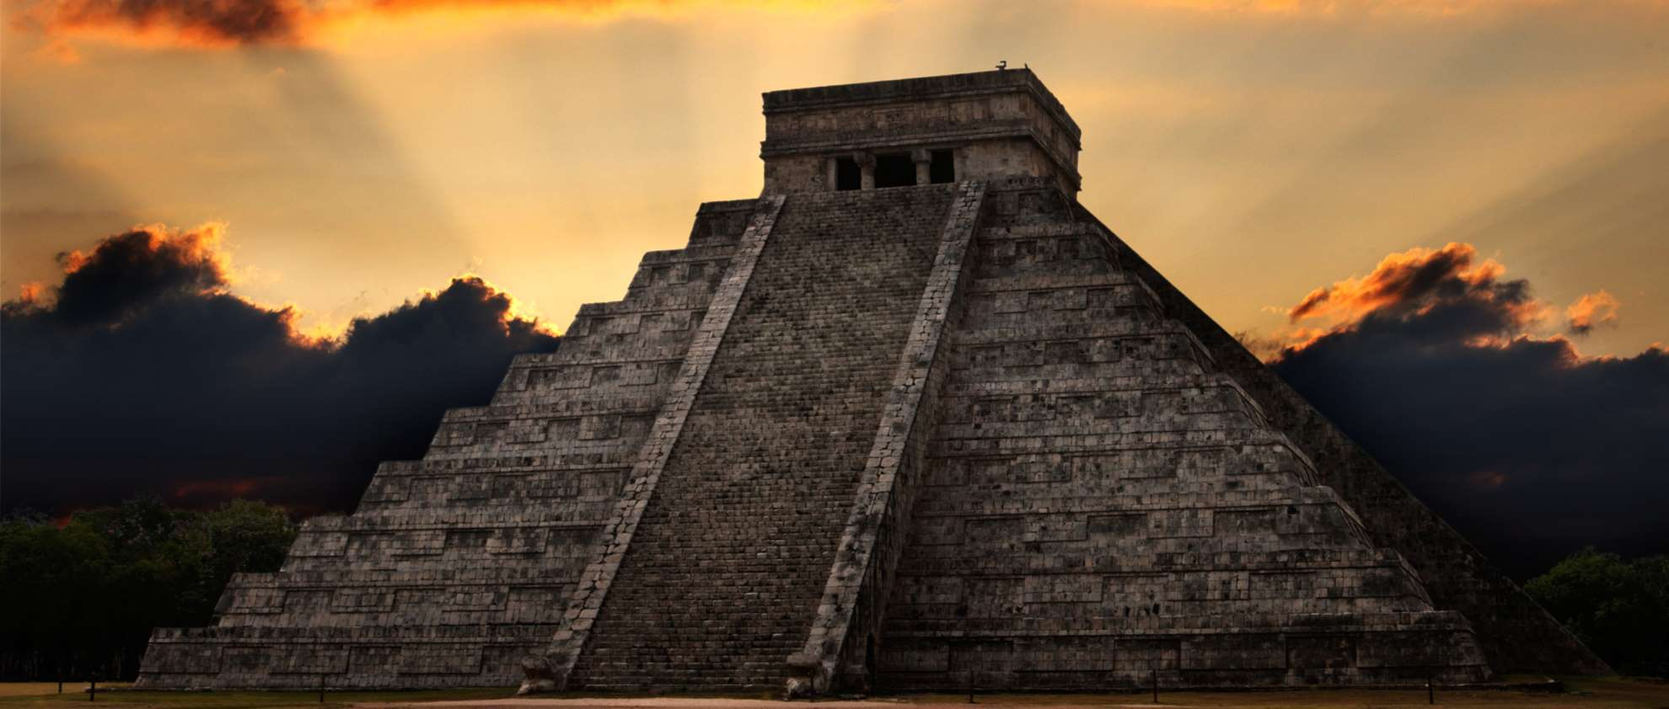
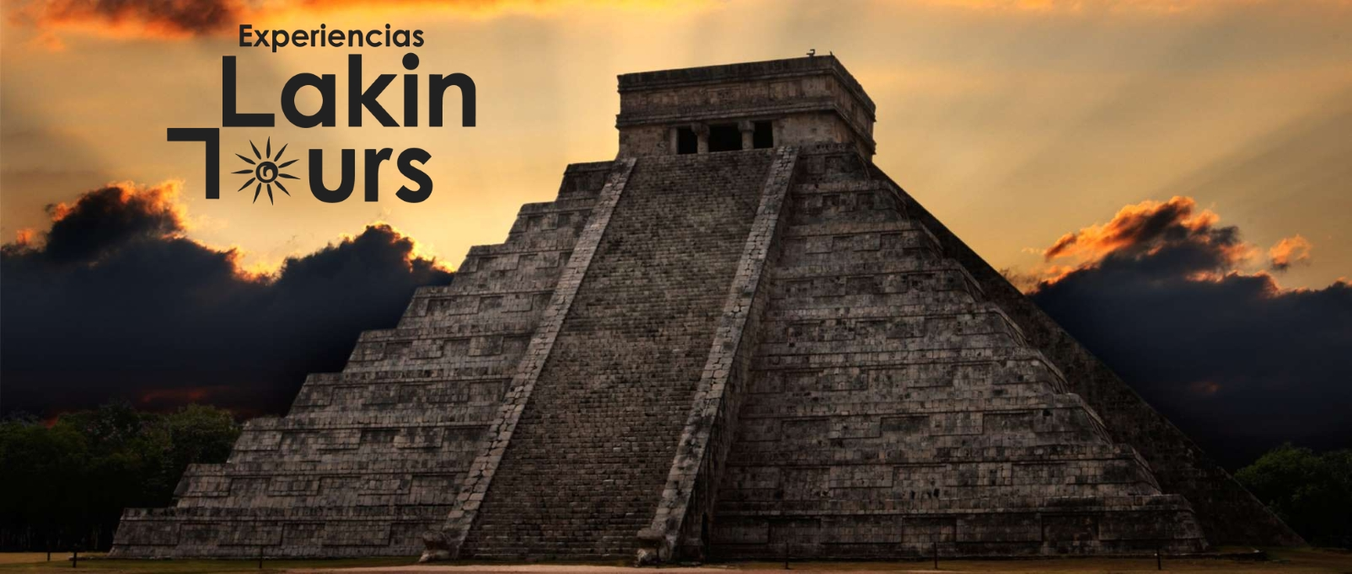
pagina nueva

Changed region(s): [[0.1247, 0.0308, 0.3741, 0.3695]]

diff --git a/index.html b/index.html
@@ -8,107 +8,81 @@
     <link rel="preconnect" href="https://fonts.googleapis.com">
     <link rel="preconnect" href="https://fonts.gstatic.com" crossorigin>
     <link href="https://fonts.googleapis.com/css2?family=Roboto:wght@400;900&display=swap" rel="stylesheet"> 
-    <link rel="stylesheet" href="https://cdn.jsdelivr.net/npm/bootstrap-icons@1.5.0/font/bootstrap-icons.css">
-    <link href="https://cdn.jsdelivr.net/npm/bootstrap@5.2.3/dist/css/bootstrap.min.css" rel="stylesheet" integrity="sha384-rbsA2VBKQhggwzxH7pPCaAqO46MgnOM80zW1RWuH61DGLwZJEdK2Kadq2F9CUG65" crossorigin="anonymous">
-    
-    <link rel="stylesheet" href="css/app.css">
+    <link href="https://cdn.jsdelivr.net/npm/bootstrap@5.3.2/dist/css/bootstrap.min.css" rel="stylesheet" integrity="sha384-T3c6CoIi6uLrA9TneNEoa7RxnatzjcDSCmG1MXxSR1GAsXEV/Dwwykc2MPK8M2HN" crossorigin="anonymous">
+    <script src="https://cdn.jsdelivr.net/npm/bootstrap@5.3.2/dist/js/bootstrap.bundle.min.js" integrity="sha384-C6RzsynM9kWDrMNeT87bh95OGNyZPhcTNXj1NW7RuBCsyN/o0jlpcV8Qyq46cDfL" crossorigin="anonymous"></script>
+    <link rel="stylesheet" href="css/inicio.css">
 </head>
-<body>
+<body class="vh-100 overflow-hidden">
 
-    <section class="menu">
-        <div class="container-xl pt-3 ">
-            <ul class="nav flex-column flex-md-row justify-content-evenly">
-                <li class="nav-item">
-                    <a class="nav-link active" href="#">INICIO</a>
-                </li>
-                <li class="nav-item">
-                    <a class="nav-link active" href="#">NOSOTROS</a>
-                </li>
-                <li class="nav-item">
-                    <a class="nav-link dropdown-toggle" href="#" data-bs-toggle="dropdown">TOURS</a>
-                    <ul class="dropdown-menu">
-                        <li>
-                            <a class="dropdown-item" href="#">CHICHEN-ITZA</a>
-                        </li>
-                        <li>
-                            <a class="dropdown-item" href="#">EK BALAM</a>
-                        </li>
-                        <li>
-                            <a class="dropdown-item" href="#">OTROS</a>
-                        </li>
-                    </ul>
-                </li>
-            </ul>
-        </div>
-    </section>
+    <!-- NAVBAR -->
 
-    <section class="carrusel-lakin">
-        
-        <div id="carouselExampleCaptions" class="carousel slide" data-bs-ride="false">
-            <div class="carousel-indicators">
-              <button type="button" data-bs-target="#carouselExampleCaptions" data-bs-slide-to="0" class="active" aria-current="true" aria-label="Slide 1"></button>
-              <button type="button" data-bs-target="#carouselExampleCaptions" data-bs-slide-to="1" aria-label="Slide 2"></button>
-              <!-- <button type="button" data-bs-target="#carouselExampleCaptions" data-bs-slide-to="2" aria-label="Slide 3"></button> -->
+    <nav class="navbar navbar-expand-lg navbar-dark bg-transparent ">
+        <div class="container">
+            <!-- LOGO -->
+          <a class="navbar-brand " href="#">Lakin Tours</a>
+          <!-- Toggle Btn -->
+          <button class="navbar-toggler shadow-none border-0" 
+                  type="button" 
+                  data-bs-toggle="offcanvas" 
+                  data-bs-target="#offcanvasNavbar" 
+                  aria-controls="offcanvasNavbar"
+                   aria-label="Toggle navigation">
+
+
+            <span class="navbar-toggler-icon"></span>
+          </button>
+
+          <!-- SideBar -->
+
+          <div class="sidebar offcanvas offcanvas-start" 
+               tabindex="-1" id="offcanvasNavbar"
+                aria-labelledby="offcanvasNavbarLabel">
+
+          <!--Sidebar Header-->
+            <div class="offcanvas-header text-white border-bottom">
+              <h5 class="offcanvas-title" id="offcanvasNavbarLabel">Lakin Tours</h5>
+              <button type="button" 
+                      class="btn-close btn-white shadow-none" 
+                      data-bs-dismiss="offcanvas" 
+                      aria-label="Close"
+                ></button>
             </div>
-            <div class="carousel-inner">
-              <div class="carousel-item active">
-                <img src="./img/Group 4.png" class="d-block w-100" alt="...">
-                <div class="carousel-caption d-none d-md-block">
-                  <h2 class="display-1 titulo-img">Chichen Itza</h2>
-                  <p class="fs-2">La ciudad de los Itzaes, magnificencia y magia.</p>
-                </div>
-              </div>
-              <div class="carousel-item">
-                <img src="/img/Ek.jpg" class="d-block w-100" alt="...">
-                <div class="carousel-caption d-none d-md-block">
-                    <h2 class="display-1 titulo-img">Ek Balam</h2>
-                  <p class="fs-2">Grandeza, arte y naturaleza.</p>
-                </div>
-              </div>
-              <!-- <div class="carousel-item">
-                <img src="..." class="d-block w-100" alt="...">
-                <div class="carousel-caption d-none d-md-block">
-                  <h5>Third slide label</h5>
-                  <p>Some representative placeholder content for the third slide.</p>
-                </div>
-              </div>
-            </div> -->
-            <button class="carousel-control-prev" type="button" data-bs-target="#carouselExampleCaptions" data-bs-slide="prev">
-              <span class="carousel-control-prev-icon" aria-hidden="true"></span>
-              <span class="visually-hidden">Previous</span>
-            </button>
-            <button class="carousel-control-next" type="button" data-bs-target="#carouselExampleCaptions" data-bs-slide="next">
-              <span class="carousel-control-next-icon" aria-hidden="true"></span>
-              <span class="visually-hidden">Next</span>
-            </button>
+            <!-- Sidebar Body -->
+            <div class="offcanvas-body d-flex flex-column flex-lg-row p-4  p-lg-0 ">
+                <!-- Aqui se cambia la alineación de los links -->
+              <ul class="navbar-nav justify-content-center align-items-center fs-5 flex-grow-1 pe-3">
+                <li class="nav-item mx-2">
+                  <a class="nav-link active" aria-current="page" href="#">Inicio</a>
+                </li>
+                <li class="nav-item mx-2">
+                  <a class="nav-link" href="#">Nosotros</a>
+                </li>
+                <li class="nav-item mx-2 dropdown">
+                  <a class="nav-link dropdown-toggle" href="#" role="button" data-bs-toggle="dropdown" aria-expanded="false">
+                    Tours
+                  </a>
+                  <ul class="dropdown-menu">
+                    <li><a class="dropdown-item" href="#">Chichen Itza</a></li>
+                    <li><a class="dropdown-item" href="#">Ek Balam</a></li>
+                    <li>
+                      <hr class="dropdown-divider">
+                    </li>
+                    <li><a class="dropdown-item" href="#">Otros Tours</a></li>
+                  </ul>
+                </li>
+              </ul>
+              
+            </div>
           </div>
-
-    </section>
-
-    <section class="reseñas">
-            <!-- <div>
-                <blockquote class="instagram-media" 
-                data-instgrm-captioned data-instgrm-permalink="https://www.instagram.com/p/Cncj3vxuFKP/?utm_source=ig_embed&amp;utm_campaign=loading" data-instgrm-version="14" style=" background:#FFF; border:0; border-radius:3px; box-shadow:0 0 1px 0 rgba(0,0,0,0.5),0 1px 10px 0 rgba(0,0,0,0.15); margin: 1px; max-width:540px; min-width:326px; padding:0; width:99.375%; width:-webkit-calc(100% - 2px); width:calc(100% - 2px);"><div style="padding:16px;"> <a href="https://www.instagram.com/p/Cncj3vxuFKP/?utm_source=ig_embed&amp;utm_campaign=loading" style=" background:#FFFFFF; line-height:0; padding:0 0; text-align:center; text-decoration:none; width:100%;" target="_blank"> <div style=" display: flex; flex-direction: row; align-items: center;"> <div style="background-color: #F4F4F4; border-radius: 50%; flex-grow: 0; height: 40px; margin-right: 14px; width: 40px;"></div> <div style="display: flex; flex-direction: column; flex-grow: 1; justify-content: center;"> <div style=" background-color: #F4F4F4; border-radius: 4px; flex-grow: 0; height: 14px; margin-bottom: 6px; width: 100px;"></div> <div style=" background-color: #F4F4F4; border-radius: 4px; flex-grow: 0; height: 14px; width: 60px;"></div></div></div><div style="padding: 19% 0;"></div> <div style="display:block; height:50px; margin:0 auto 12px; width:50px;"><svg width="50px" height="50px" viewBox="0 0 60 60" version="1.1" xmlns="https://www.w3.org/2000/svg" xmlns:xlink="https://www.w3.org/1999/xlink"><g stroke="none" stroke-width="1" fill="none" fill-rule="evenodd"><g transform="translate(-511.000000, -20.000000)" fill="#000000"><g><path d="M556.869,30.41 C554.814,30.41 553.148,32.076 553.148,34.131 C553.148,36.186 554.814,37.852 556.869,37.852 C558.924,37.852 560.59,36.186 560.59,34.131 C560.59,32.076 558.924,30.41 556.869,30.41 M541,60.657 C535.114,60.657 530.342,55.887 530.342,50 C530.342,44.114 535.114,39.342 541,39.342 C546.887,39.342 551.658,44.114 551.658,50 C551.658,55.887 546.887,60.657 541,60.657 M541,33.886 C532.1,33.886 524.886,41.1 524.886,50 C524.886,58.899 532.1,66.113 541,66.113 C549.9,66.113 557.115,58.899 557.115,50 C557.115,41.1 549.9,33.886 541,33.886 M565.378,62.101 C565.244,65.022 564.756,66.606 564.346,67.663 C563.803,69.06 563.154,70.057 562.106,71.106 C561.058,72.155 560.06,72.803 558.662,73.347 C557.607,73.757 556.021,74.244 553.102,74.378 C549.944,74.521 548.997,74.552 541,74.552 C533.003,74.552 532.056,74.521 528.898,74.378 C525.979,74.244 524.393,73.757 523.338,73.347 C521.94,72.803 520.942,72.155 519.894,71.106 C518.846,70.057 518.197,69.06 517.654,67.663 C517.244,66.606 516.755,65.022 516.623,62.101 C516.479,58.943 516.448,57.996 516.448,50 C516.448,42.003 516.479,41.056 516.623,37.899 C516.755,34.978 517.244,33.391 517.654,32.338 C518.197,30.938 518.846,29.942 519.894,28.894 C520.942,27.846 521.94,27.196 523.338,26.654 C524.393,26.244 525.979,25.756 528.898,25.623 C532.057,25.479 533.004,25.448 541,25.448 C548.997,25.448 549.943,25.479 553.102,25.623 C556.021,25.756 557.607,26.244 558.662,26.654 C560.06,27.196 561.058,27.846 562.106,28.894 C563.154,29.942 563.803,30.938 564.346,32.338 C564.756,33.391 565.244,34.978 565.378,37.899 C565.522,41.056 565.552,42.003 565.552,50 C565.552,57.996 565.522,58.943 565.378,62.101 M570.82,37.631 C570.674,34.438 570.167,32.258 569.425,30.349 C568.659,28.377 567.633,26.702 565.965,25.035 C564.297,23.368 562.623,22.342 560.652,21.575 C558.743,20.834 556.562,20.326 553.369,20.18 C550.169,20.033 549.148,20 541,20 C532.853,20 531.831,20.033 528.631,20.18 C525.438,20.326 523.257,20.834 521.349,21.575 C519.376,22.342 517.703,23.368 516.035,25.035 C514.368,26.702 513.342,28.377 512.574,30.349 C511.834,32.258 511.326,34.438 511.181,37.631 C511.035,40.831 511,41.851 511,50 C511,58.147 511.035,59.17 511.181,62.369 C511.326,65.562 511.834,67.743 512.574,69.651 C513.342,71.625 514.368,73.296 516.035,74.965 C517.703,76.634 519.376,77.658 521.349,78.425 C523.257,79.167 525.438,79.673 528.631,79.82 C531.831,79.965 532.853,80.001 541,80.001 C549.148,80.001 550.169,79.965 553.369,79.82 C556.562,79.673 558.743,79.167 560.652,78.425 C562.623,77.658 564.297,76.634 565.965,74.965 C567.633,73.296 568.659,71.625 569.425,69.651 C570.167,67.743 570.674,65.562 570.82,62.369 C570.966,59.17 571,58.147 571,50 C571,41.851 570.966,40.831 570.82,37.631"></path></g></g></g></svg></div><div style="padding-top: 8px;"> <div style=" color:#3897f0; font-family:Arial,sans-serif; font-size:14px; font-style:normal; font-weight:550; line-height:18px;">Ver esta publicación en Instagram</div></div><div style="padding: 12.5% 0;"></div> <div style="display: flex; flex-direction: row; margin-bottom: 14px; align-items: center;"><div> <div style="background-color: #F4F4F4; border-radius: 50%; height: 12.5px; width: 12.5px; transform: translateX(0px) translateY(7px);"></div> <div style="background-color: #F4F4F4; height: 12.5px; transform: rotate(-45deg) translateX(3px) translateY(1px); width: 12.5px; flex-grow: 0; margin-right: 14px; margin-left: 2px;"></div> <div style="background-color: #F4F4F4; border-radius: 50%; height: 12.5px; width: 12.5px; transform: translateX(9px) translateY(-18px);"></div></div><div style="margin-left: 8px;"> <div style=" background-color: #F4F4F4; border-radius: 50%; flex-grow: 0; height: 20px; width: 20px;"></div> <div style=" width: 0; height: 0; border-top: 2px solid transparent; border-left: 6px solid #f4f4f4; border-bottom: 2px solid transparent; transform: translateX(16px) translateY(-4px) rotate(30deg)"></div></div><div style="margin-left: auto;"> <div style=" width: 0px; border-top: 8px solid #F4F4F4; border-right: 8px solid transparent; transform: translateY(16px);"></div> <div style=" background-color: #F4F4F4; flex-grow: 0; height: 12px; width: 16px; transform: translateY(-4px);"></div> <div style=" width: 0; height: 0; border-top: 8px solid #F4F4F4; border-left: 8px solid transparent; transform: translateY(-4px) translateX(8px);"></div></div></div> <div style="display: flex; flex-direction: column; flex-grow: 1; justify-content: center; margin-bottom: 24px;"> <div style=" background-color: #F4F4F4; border-radius: 4px; flex-grow: 0; height: 14px; margin-bottom: 6px; width: 224px;"></div> <div style=" background-color: #F4F4F4; border-radius: 4px; flex-grow: 0; height: 14px; width: 144px;"></div></div></a><p style=" color:#c9c8cd; font-family:Arial,sans-serif; font-size:14px; line-height:17px; margin-bottom:0; margin-top:8px; overflow:hidden; padding:8px 0 7px; text-align:center; text-overflow:ellipsis; white-space:nowrap;"><a href="https://www.instagram.com/p/Cncj3vxuFKP/?utm_source=ig_embed&amp;utm_campaign=loading" style=" color:#c9c8cd; font-family:Arial,sans-serif; font-size:14px; font-style:normal; font-weight:normal; line-height:17px; text-decoration:none;" target="_blank">Una publicación compartida por Experiencias LakinTours (@lakintours)</a></p></div></blockquote> <script async src="//www.instagram.com/embed.js"></script>
-            </div> -->
-            <div class="container-xl pt-5"></div>
-            <script src="https://static.elfsight.com/platform/platform.js" data-use-service-core defer></script>
-            <div class="elfsight-app-1990c052-57a7-4233-9c32-91550cfcda9f"></div>
-    </section>
-    
-    <section class="footer">
-        <div class="redes container-xl d-flex justify-content-evenly ">
-            <a href="https://www.facebook.com/LakinTours" type="button" class="btn "><i class="bi bi-facebook"></i></a>
-            <a type="button" class="btn  "><i class="bi bi-whatsapp"></i></i></a>
-            <a type="button" class="btn "><i class="bi bi-instagram"></i></i></a>
-     
         </div>
-    </section>
+      </nav>
 
-
-    <script src="https://cdn.jsdelivr.net/npm/@popperjs/core@2.11.6/dist/umd/popper.min.js" integrity="sha384-oBqDVmMz9ATKxIep9tiCxS/Z9fNfEXiDAYTujMAeBAsjFuCZSmKbSSUnQlmh/jp3" crossorigin="anonymous"></script>
-    <script src="https://cdn.jsdelivr.net/npm/bootstrap@5.2.3/dist/js/bootstrap.min.js" integrity="sha384-cuYeSxntonz0PPNlHhBs68uyIAVpIIOZZ5JqeqvYYIcEL727kskC66kF92t6Xl2V" crossorigin="anonymous"></script>
-    
-
+      <main>
+        <section class="w-100 vh-100 d-flex flex-column justify-content-center align-items-center text-white fs-1">
+            <h2 style="font-size:1.5em ">Experiencias Unicas</h2>
+            <h2 style="font-size:1.2em ">Magic Experiences</h2>
+        </section>
+      </main>
     
 </body>
 </html>

diff --git a/inicio1.html b/inicio1.html
@@ -1,0 +1,114 @@
+<!DOCTYPE html>
+<html lang="es">
+<head>
+    <meta charset="UTF-8">
+    <meta http-equiv="X-UA-Compatible" content="IE=edge">
+    <meta name="viewport" content="width=device-width, initial-scale=1.0">
+    <title>Lakin Tours</title>
+    <link rel="preconnect" href="https://fonts.googleapis.com">
+    <link rel="preconnect" href="https://fonts.gstatic.com" crossorigin>
+    <link href="https://fonts.googleapis.com/css2?family=Roboto:wght@400;900&display=swap" rel="stylesheet"> 
+    <link rel="stylesheet" href="https://cdn.jsdelivr.net/npm/bootstrap-icons@1.5.0/font/bootstrap-icons.css">
+    <link href="https://cdn.jsdelivr.net/npm/bootstrap@5.2.3/dist/css/bootstrap.min.css" rel="stylesheet" integrity="sha384-rbsA2VBKQhggwzxH7pPCaAqO46MgnOM80zW1RWuH61DGLwZJEdK2Kadq2F9CUG65" crossorigin="anonymous">
+    
+    <link rel="stylesheet" href="css/app.css">
+</head>
+<body>
+
+    <section class="menu">
+        <div class="container-xl pt-3 ">
+            <ul class="nav flex-column flex-md-row justify-content-evenly">
+                <li class="nav-item">
+                    <a class="nav-link active" href="#">INICIO</a>
+                </li>
+                <li class="nav-item">
+                    <a class="nav-link active" href="#">NOSOTROS</a>
+                </li>
+                <li class="nav-item">
+                    <a class="nav-link dropdown-toggle" href="#" data-bs-toggle="dropdown">TOURS</a>
+                    <ul class="dropdown-menu">
+                        <li>
+                            <a class="dropdown-item" href="#">CHICHEN-ITZA</a>
+                        </li>
+                        <li>
+                            <a class="dropdown-item" href="#">EK BALAM</a>
+                        </li>
+                        <li>
+                            <a class="dropdown-item" href="#">OTROS</a>
+                        </li>
+                    </ul>
+                </li>
+            </ul>
+        </div>
+    </section>
+
+    <section class="carrusel-lakin">
+        
+        <div id="carouselExampleCaptions" class="carousel slide" data-bs-ride="false">
+            <div class="carousel-indicators">
+              <button type="button" data-bs-target="#carouselExampleCaptions" data-bs-slide-to="0" class="active" aria-current="true" aria-label="Slide 1"></button>
+              <button type="button" data-bs-target="#carouselExampleCaptions" data-bs-slide-to="1" aria-label="Slide 2"></button>
+              <!-- <button type="button" data-bs-target="#carouselExampleCaptions" data-bs-slide-to="2" aria-label="Slide 3"></button> -->
+            </div>
+            <div class="carousel-inner">
+              <div class="carousel-item active">
+                <img src="./img/Group 4.png" class="d-block w-100" alt="...">
+                <div class="carousel-caption d-none d-md-block">
+                  <h2 class="display-1 titulo-img">Chichen Itza</h2>
+                  <p class="fs-2">La ciudad de los Itzaes, magnificencia y magia.</p>
+                </div>
+              </div>
+              <div class="carousel-item">
+                <img src="/img/Ek.jpg" class="d-block w-100" alt="...">
+                <div class="carousel-caption d-none d-md-block">
+                    <h2 class="display-1 titulo-img">Ek Balam</h2>
+                  <p class="fs-2">Grandeza, arte y naturaleza.</p>
+                </div>
+              </div>
+              <!-- <div class="carousel-item">
+                <img src="..." class="d-block w-100" alt="...">
+                <div class="carousel-caption d-none d-md-block">
+                  <h5>Third slide label</h5>
+                  <p>Some representative placeholder content for the third slide.</p>
+                </div>
+              </div>
+            </div> -->
+            <button class="carousel-control-prev" type="button" data-bs-target="#carouselExampleCaptions" data-bs-slide="prev">
+              <span class="carousel-control-prev-icon" aria-hidden="true"></span>
+              <span class="visually-hidden">Previous</span>
+            </button>
+            <button class="carousel-control-next" type="button" data-bs-target="#carouselExampleCaptions" data-bs-slide="next">
+              <span class="carousel-control-next-icon" aria-hidden="true"></span>
+              <span class="visually-hidden">Next</span>
+            </button>
+          </div>
+
+    </section>
+
+    <section class="reseñas">
+            <!-- <div>
+                <blockquote class="instagram-media" 
+                data-instgrm-captioned data-instgrm-permalink="https://www.instagram.com/p/Cncj3vxuFKP/?utm_source=ig_embed&amp;utm_campaign=loading" data-instgrm-version="14" style=" background:#FFF; border:0; border-radius:3px; box-shadow:0 0 1px 0 rgba(0,0,0,0.5),0 1px 10px 0 rgba(0,0,0,0.15); margin: 1px; max-width:540px; min-width:326px; padding:0; width:99.375%; width:-webkit-calc(100% - 2px); width:calc(100% - 2px);"><div style="padding:16px;"> <a href="https://www.instagram.com/p/Cncj3vxuFKP/?utm_source=ig_embed&amp;utm_campaign=loading" style=" background:#FFFFFF; line-height:0; padding:0 0; text-align:center; text-decoration:none; width:100%;" target="_blank"> <div style=" display: flex; flex-direction: row; align-items: center;"> <div style="background-color: #F4F4F4; border-radius: 50%; flex-grow: 0; height: 40px; margin-right: 14px; width: 40px;"></div> <div style="display: flex; flex-direction: column; flex-grow: 1; justify-content: center;"> <div style=" background-color: #F4F4F4; border-radius: 4px; flex-grow: 0; height: 14px; margin-bottom: 6px; width: 100px;"></div> <div style=" background-color: #F4F4F4; border-radius: 4px; flex-grow: 0; height: 14px; width: 60px;"></div></div></div><div style="padding: 19% 0;"></div> <div style="display:block; height:50px; margin:0 auto 12px; width:50px;"><svg width="50px" height="50px" viewBox="0 0 60 60" version="1.1" xmlns="https://www.w3.org/2000/svg" xmlns:xlink="https://www.w3.org/1999/xlink"><g stroke="none" stroke-width="1" fill="none" fill-rule="evenodd"><g transform="translate(-511.000000, -20.000000)" fill="#000000"><g><path d="M556.869,30.41 C554.814,30.41 553.148,32.076 553.148,34.131 C553.148,36.186 554.814,37.852 556.869,37.852 C558.924,37.852 560.59,36.186 560.59,34.131 C560.59,32.076 558.924,30.41 556.869,30.41 M541,60.657 C535.114,60.657 530.342,55.887 530.342,50 C530.342,44.114 535.114,39.342 541,39.342 C546.887,39.342 551.658,44.114 551.658,50 C551.658,55.887 546.887,60.657 541,60.657 M541,33.886 C532.1,33.886 524.886,41.1 524.886,50 C524.886,58.899 532.1,66.113 541,66.113 C549.9,66.113 557.115,58.899 557.115,50 C557.115,41.1 549.9,33.886 541,33.886 M565.378,62.101 C565.244,65.022 564.756,66.606 564.346,67.663 C563.803,69.06 563.154,70.057 562.106,71.106 C561.058,72.155 560.06,72.803 558.662,73.347 C557.607,73.757 556.021,74.244 553.102,74.378 C549.944,74.521 548.997,74.552 541,74.552 C533.003,74.552 532.056,74.521 528.898,74.378 C525.979,74.244 524.393,73.757 523.338,73.347 C521.94,72.803 520.942,72.155 519.894,71.106 C518.846,70.057 518.197,69.06 517.654,67.663 C517.244,66.606 516.755,65.022 516.623,62.101 C516.479,58.943 516.448,57.996 516.448,50 C516.448,42.003 516.479,41.056 516.623,37.899 C516.755,34.978 517.244,33.391 517.654,32.338 C518.197,30.938 518.846,29.942 519.894,28.894 C520.942,27.846 521.94,27.196 523.338,26.654 C524.393,26.244 525.979,25.756 528.898,25.623 C532.057,25.479 533.004,25.448 541,25.448 C548.997,25.448 549.943,25.479 553.102,25.623 C556.021,25.756 557.607,26.244 558.662,26.654 C560.06,27.196 561.058,27.846 562.106,28.894 C563.154,29.942 563.803,30.938 564.346,32.338 C564.756,33.391 565.244,34.978 565.378,37.899 C565.522,41.056 565.552,42.003 565.552,50 C565.552,57.996 565.522,58.943 565.378,62.101 M570.82,37.631 C570.674,34.438 570.167,32.258 569.425,30.349 C568.659,28.377 567.633,26.702 565.965,25.035 C564.297,23.368 562.623,22.342 560.652,21.575 C558.743,20.834 556.562,20.326 553.369,20.18 C550.169,20.033 549.148,20 541,20 C532.853,20 531.831,20.033 528.631,20.18 C525.438,20.326 523.257,20.834 521.349,21.575 C519.376,22.342 517.703,23.368 516.035,25.035 C514.368,26.702 513.342,28.377 512.574,30.349 C511.834,32.258 511.326,34.438 511.181,37.631 C511.035,40.831 511,41.851 511,50 C511,58.147 511.035,59.17 511.181,62.369 C511.326,65.562 511.834,67.743 512.574,69.651 C513.342,71.625 514.368,73.296 516.035,74.965 C517.703,76.634 519.376,77.658 521.349,78.425 C523.257,79.167 525.438,79.673 528.631,79.82 C531.831,79.965 532.853,80.001 541,80.001 C549.148,80.001 550.169,79.965 553.369,79.82 C556.562,79.673 558.743,79.167 560.652,78.425 C562.623,77.658 564.297,76.634 565.965,74.965 C567.633,73.296 568.659,71.625 569.425,69.651 C570.167,67.743 570.674,65.562 570.82,62.369 C570.966,59.17 571,58.147 571,50 C571,41.851 570.966,40.831 570.82,37.631"></path></g></g></g></svg></div><div style="padding-top: 8px;"> <div style=" color:#3897f0; font-family:Arial,sans-serif; font-size:14px; font-style:normal; font-weight:550; line-height:18px;">Ver esta publicación en Instagram</div></div><div style="padding: 12.5% 0;"></div> <div style="display: flex; flex-direction: row; margin-bottom: 14px; align-items: center;"><div> <div style="background-color: #F4F4F4; border-radius: 50%; height: 12.5px; width: 12.5px; transform: translateX(0px) translateY(7px);"></div> <div style="background-color: #F4F4F4; height: 12.5px; transform: rotate(-45deg) translateX(3px) translateY(1px); width: 12.5px; flex-grow: 0; margin-right: 14px; margin-left: 2px;"></div> <div style="background-color: #F4F4F4; border-radius: 50%; height: 12.5px; width: 12.5px; transform: translateX(9px) translateY(-18px);"></div></div><div style="margin-left: 8px;"> <div style=" background-color: #F4F4F4; border-radius: 50%; flex-grow: 0; height: 20px; width: 20px;"></div> <div style=" width: 0; height: 0; border-top: 2px solid transparent; border-left: 6px solid #f4f4f4; border-bottom: 2px solid transparent; transform: translateX(16px) translateY(-4px) rotate(30deg)"></div></div><div style="margin-left: auto;"> <div style=" width: 0px; border-top: 8px solid #F4F4F4; border-right: 8px solid transparent; transform: translateY(16px);"></div> <div style=" background-color: #F4F4F4; flex-grow: 0; height: 12px; width: 16px; transform: translateY(-4px);"></div> <div style=" width: 0; height: 0; border-top: 8px solid #F4F4F4; border-left: 8px solid transparent; transform: translateY(-4px) translateX(8px);"></div></div></div> <div style="display: flex; flex-direction: column; flex-grow: 1; justify-content: center; margin-bottom: 24px;"> <div style=" background-color: #F4F4F4; border-radius: 4px; flex-grow: 0; height: 14px; margin-bottom: 6px; width: 224px;"></div> <div style=" background-color: #F4F4F4; border-radius: 4px; flex-grow: 0; height: 14px; width: 144px;"></div></div></a><p style=" color:#c9c8cd; font-family:Arial,sans-serif; font-size:14px; line-height:17px; margin-bottom:0; margin-top:8px; overflow:hidden; padding:8px 0 7px; text-align:center; text-overflow:ellipsis; white-space:nowrap;"><a href="https://www.instagram.com/p/Cncj3vxuFKP/?utm_source=ig_embed&amp;utm_campaign=loading" style=" color:#c9c8cd; font-family:Arial,sans-serif; font-size:14px; font-style:normal; font-weight:normal; line-height:17px; text-decoration:none;" target="_blank">Una publicación compartida por Experiencias LakinTours (@lakintours)</a></p></div></blockquote> <script async src="//www.instagram.com/embed.js"></script>
+            </div> -->
+            <div class="container-xl pt-5"></div>
+            <script src="https://static.elfsight.com/platform/platform.js" data-use-service-core defer></script>
+            <div class="elfsight-app-1990c052-57a7-4233-9c32-91550cfcda9f"></div>
+    </section>
+    
+    <section class="footer">
+        <div class="redes container-xl d-flex justify-content-evenly ">
+            <a href="https://www.facebook.com/LakinTours" type="button" class="btn "><i class="bi bi-facebook"></i></a>
+            <a type="button" class="btn  "><i class="bi bi-whatsapp"></i></i></a>
+            <a type="button" class="btn "><i class="bi bi-instagram"></i></i></a>
+     
+        </div>
+    </section>
+
+
+    <script src="https://cdn.jsdelivr.net/npm/@popperjs/core@2.11.6/dist/umd/popper.min.js" integrity="sha384-oBqDVmMz9ATKxIep9tiCxS/Z9fNfEXiDAYTujMAeBAsjFuCZSmKbSSUnQlmh/jp3" crossorigin="anonymous"></script>
+    <script src="https://cdn.jsdelivr.net/npm/bootstrap@5.2.3/dist/js/bootstrap.min.js" integrity="sha384-cuYeSxntonz0PPNlHhBs68uyIAVpIIOZZ5JqeqvYYIcEL727kskC66kF92t6Xl2V" crossorigin="anonymous"></script>
+    
+
+    
+</body>
+</html>

diff --git a/css/inicio.css b/css/inicio.css
@@ -1,0 +1,16 @@
+body{
+    background: url("../img/Chichen.png") rgba(0,0,0,0.3);
+    background-blend-mode: multiply;
+    background-position:  center;
+    background-size:cover;
+    background-repeat: no-repeat;
+    
+}
+
+
+@media(max-width: 991px){
+    .sidebar{
+        background-color: rgba(255,255,255,0.5);
+        backdrop-filter: blur();
+    }
+}
